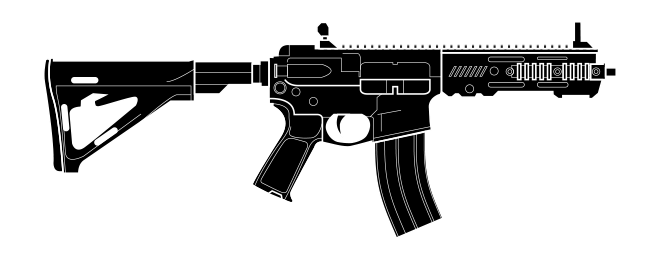
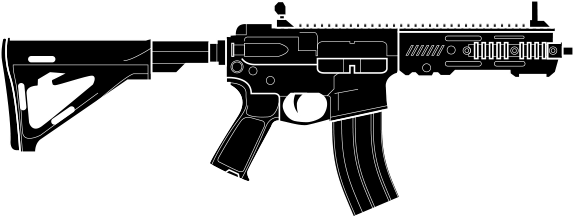
Various fixes
fixed images cropping issue and made the buttons look better.

Changed region(s): [[0.0, 0.0, 1.0, 0.9908]]

diff --git a/styles.css b/styles.css
@@ -106,10 +106,6 @@ h4 > a:hover {
                 font-size 0.25s cubic-bezier(0, 0, 0.7, 1);
 }
 
-.border-highlight:hover {
-    border-bottom: 5px solid rgb(0, 255, 255) !important;
-}
-
 .btn-item:hover {
     border-bottom: 5px solid rgb(0, 255, 255) !important;
     font-size: 1.4rem;
@@ -168,21 +164,12 @@ h4 > a:hover {
 
 /**** OPS & GUNS PAGES ****/
 .square {
-    padding: 0;
+    padding: 0.5rem;
     border-radius: 0;
 
-    width: 50px;
+    min-width: 100px;
     height: 50px;
-    background-color: rgb(228, 228, 228);
-
-    border-bottom: 5px solid transparent !important;
-    transition: border-bottom 0.25s cubic-bezier(0, 0, 0.7, 1);
-}
-
-.square:hover,
-.rect:hover {
-    background-color: rgb(228, 228, 228);
-    border-bottom: 5px solid rgb(0, 255, 255) !important;
+    background-color: rgb(212, 212, 212);
 }
 
 .rect {
@@ -190,32 +177,21 @@ h4 > a:hover {
     border-radius: 0;
 
     height: 50px;
-    background-color: rgb(228, 228, 228);
-
-    border-bottom: 5px solid transparent !important;
-    transition: border-bottom 0.25s cubic-bezier(0, 0, 0.7, 1);
+    min-width: 100px;
+    background-color: rgb(212, 212, 212);
 }
 
-.rect:hover > .img-svg-2,
+.rect:hover > .img-svg,
 .square:hover > .img-svg {
     transform: scale(1.1);
 }
 
 .img-svg {
-    width: 75%;
-    height: 50px;
-    transform: scale(1);
-
-    transition: transform 250ms ease-in-out;
-}
-
-.img-svg-2 {
     height: 100%;
     transform: scale(1);
 
     transition: transform 250ms ease-in-out;
 }
-
 
 .nav-arrows {
     position: fixed !important;
@@ -249,9 +225,18 @@ h4 > a:hover {
 }
 
 .border-highlight {
-    border-bottom: 5px solid transparent !important;
+    border-radius: 0px !important;
+    border-bottom: 5px inset transparent !important;
 
     transition: border-bottom 0.25s cubic-bezier(0, 0, 0.7, 1);
+}
+
+.border-highlight:hover {
+    border-bottom: 5px solid rgb(0, 255, 255) !important;
+}
+
+.btn {
+    border-width: 0px !important; /* override an annoying pixel problem */
 }
 
 .center {

diff --git a/scripts/guns.js b/scripts/guns.js
@@ -177,41 +177,41 @@ function buildGunCards(arr, loc) {
 
 function navigationArrows(loc) {
     var parent = loc.append('div')
-        .classed('row nav-arrows', true)
+        .classed('nav-arrows', true)
 
     var atk = parent.append('div')
-        .classed('col', true)
+    .classed('gradient border-highlight', true)
 
     atk.append('a')
         .attr('href', '#primaries')
         .attr('title', 'Jump to primaries')
-        .classed('btn rect gradient', true)
+        .classed('btn rect', true)
         .append('img')
-        .classed('center img-svg-2', true)
+        .classed('center img-svg', true)
         .attr('src', 'resources/guns/MP5K.png')
         .attr('alt', 'PRIMARIES');
 
     var def = parent.append('div')
-        .classed('col ms-3', true)
+        .classed('gradient border-highlight mt-3', true)
 
     def.append('a')
         .attr('href', '#secondaries')
         .attr('title', 'Jump to secondaries')
-        .classed('btn rect gradient', true)
+        .classed('btn rect', true)
         .append('img')
-        .classed('center img-svg-2', true)
+        .classed('center img-svg', true)
         .attr('src', 'resources/guns/D-50.png')
         .attr('alt', 'SECONDARIES');
 
     var top = parent.append('div')
-        .classed('col ms-3', true)
+        .classed('gradient border-highlight mt-3', true)
 
     top.append('a')
         .attr('href', '#')
         .attr('title', 'Back to top')
-        .classed('btn rect gradient', true)
+        .classed('btn rect', true)
         .append('img')
-        .classed('center img-svg-2', true)
+        .classed('center img-svg', true)
         .attr('src', 'resources/up.svg')
         .attr('alt', 'TOP');
 }

diff --git a/scripts/ops.js b/scripts/ops.js
@@ -240,39 +240,39 @@ function buildGadgetList(list, loc) {
 
 function navigationArrows(loc) {
     var parent = loc.append('div')
-        .classed('row nav-arrows', true)
+        .classed('nav-arrows', true)
 
     var atk = parent.append('div')
-        .classed('col', true)
+    .classed('gradient border-highlight', true)
 
     atk.append('a')
         .attr('href', '#Attackers')
         .attr('title', 'Jump to attackers')
-        .classed('btn square gradient', true)
+        .classed('btn square', true)
         .append('img')
         .classed('center img-svg', true)
         .attr('src', 'resources/atk.svg')
         .attr('alt', 'ATK');
 
     var def = parent.append('div')
-        .classed('col ms-3', true)
+        .classed('gradient border-highlight mt-3', true)
 
     def.append('a')
         .attr('href', '#Defenders')
         .attr('title', 'Jump to defenders')
-        .classed('btn square gradient', true)
+        .classed('btn square', true)
         .append('img')
         .classed('center img-svg', true)
         .attr('src', 'resources/def.svg')
         .attr('alt', 'DEF');
 
     var top = parent.append('div')
-        .classed('col ms-3', true)
+        .classed('gradient border-highlight mt-3', true)
 
     top.append('a')
         .attr('href', '#')
         .attr('title', 'Back to top')
-        .classed('btn square gradient', true)
+        .classed('btn square', true)
         .append('img')
         .classed('center img-svg', true)
         .attr('src', 'resources/up.svg')
